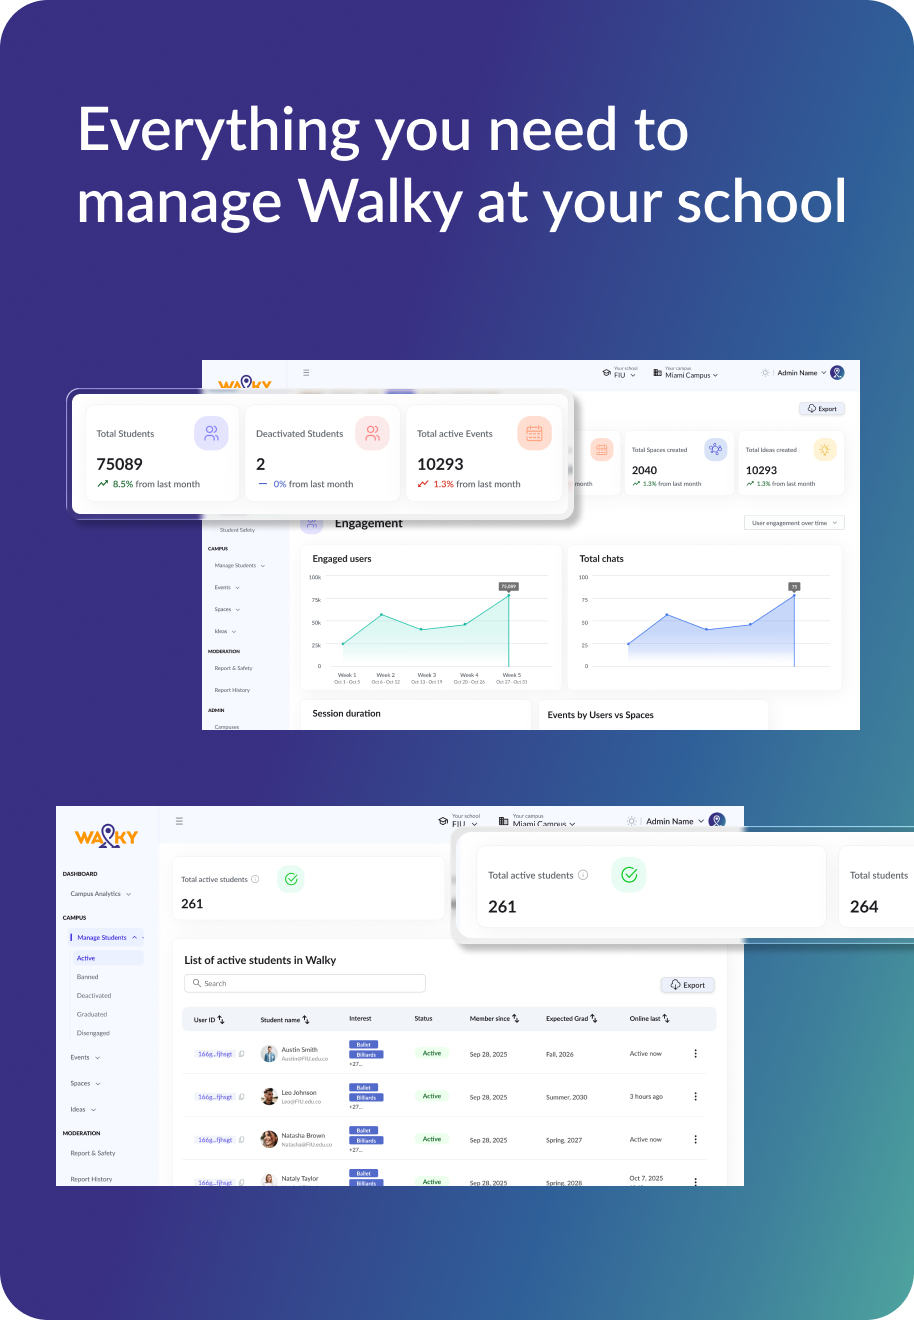
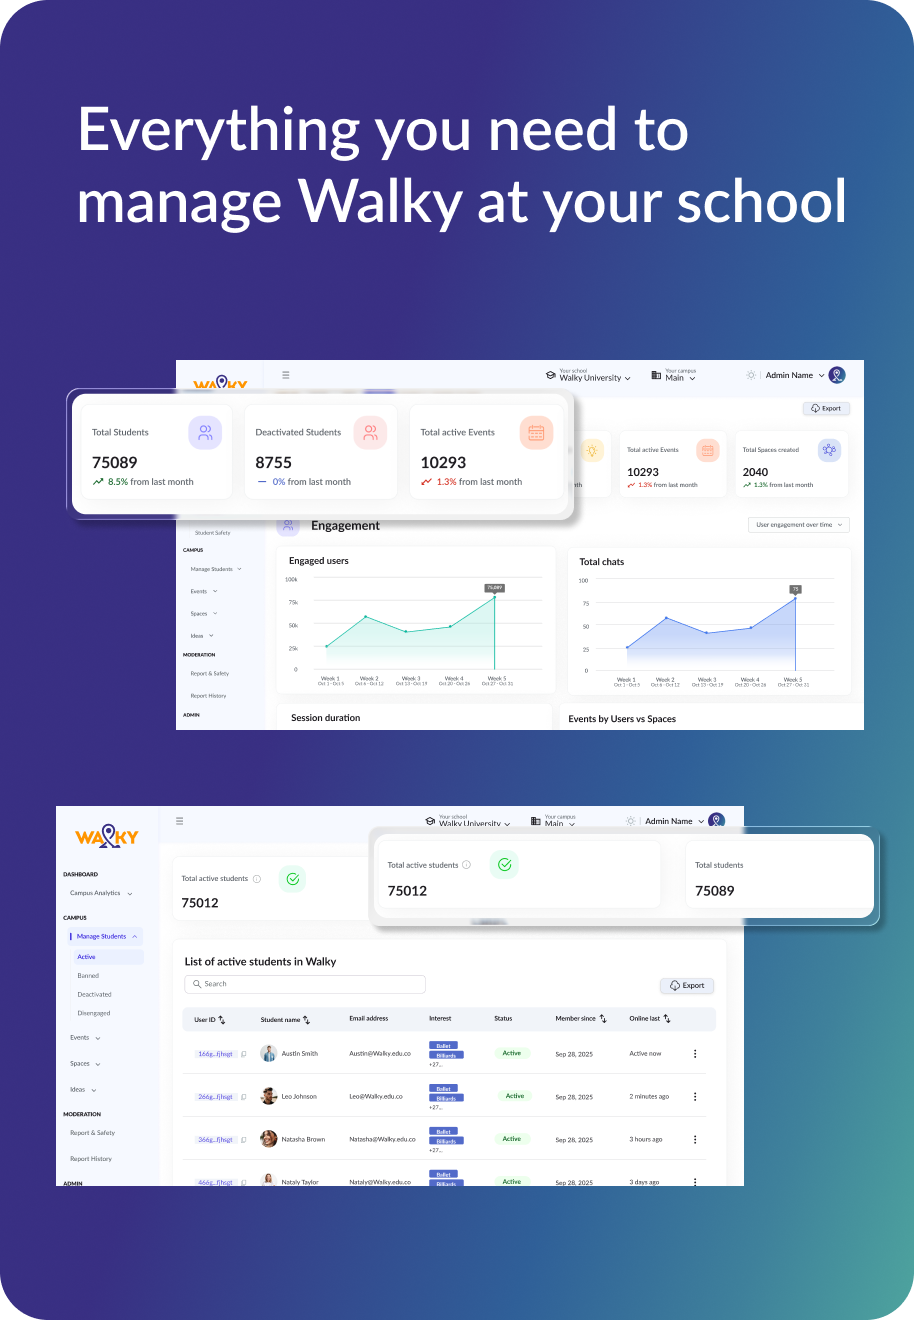
fix: update active students stats display to include onboarding completion

diff --git a/src/pages-v2/Campus/ActiveStudents/ActiveStudents.tsx b/src/pages-v2/Campus/ActiveStudents/ActiveStudents.tsx
@@ -138,7 +138,12 @@ export const ActiveStudents: React.FC = () => {
       <div className="active-students-stats">
         <StatsCard
           title="Total Active students"
-          value={statsData?.data.studentsWithAppAccess?.toString() || "0"}
+          value={
+            (
+              statsData?.data.studentsWhoCompletedOnboarding ??
+              statsData?.data.studentsWithAppAccess
+            )?.toString() || "0"
+          }
           iconName="check-icon"
           iconBgColor="#E9FCF4"
           iconColor="#00C617"
